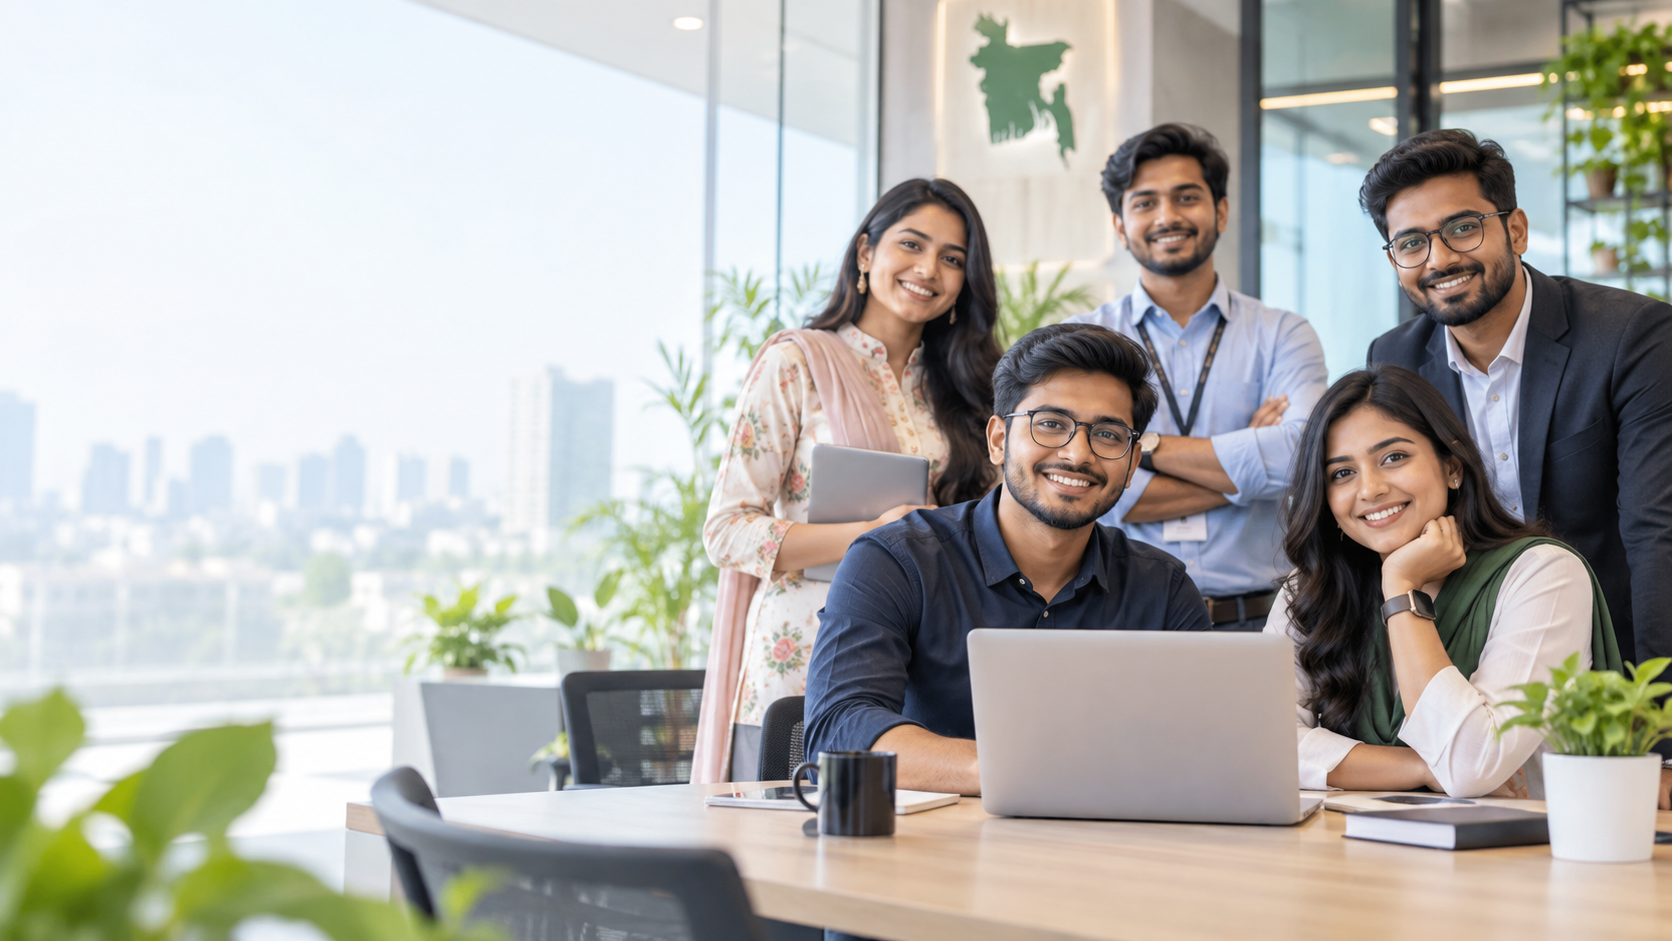
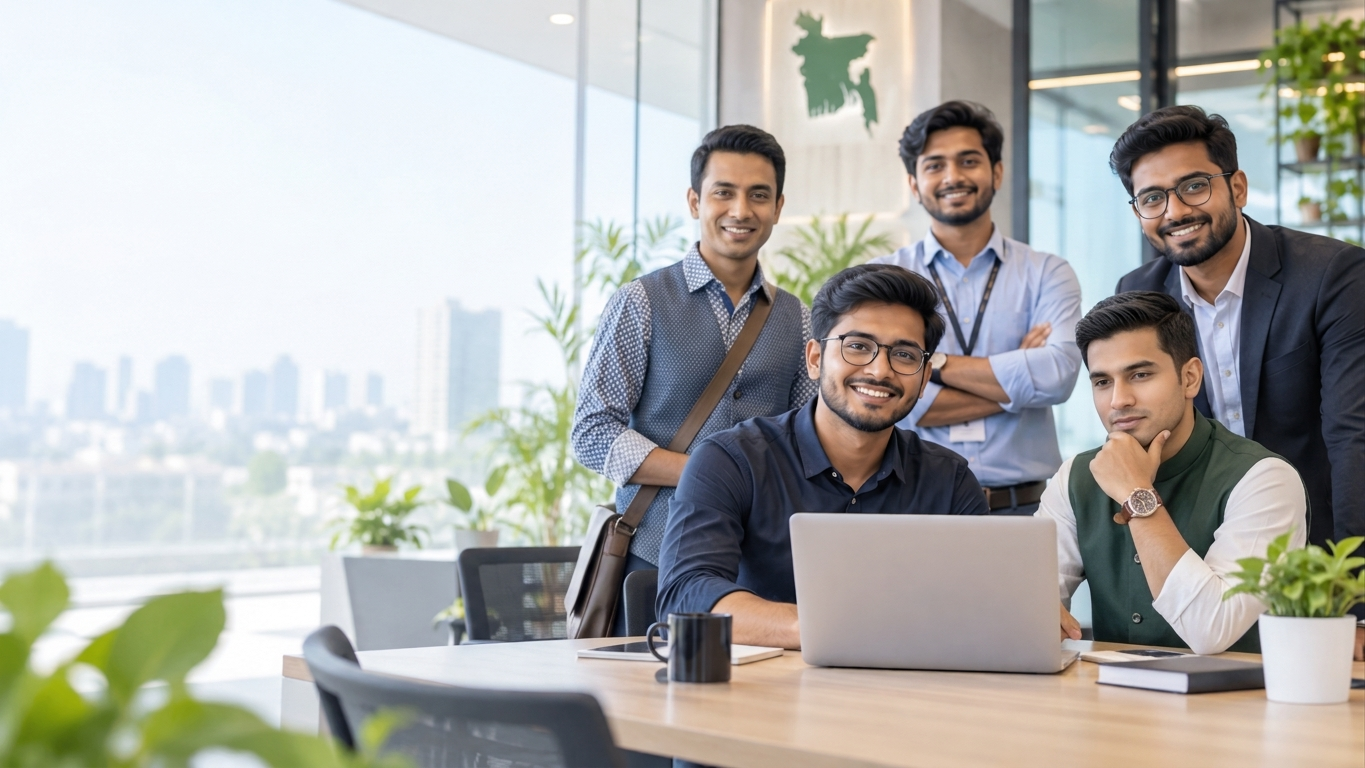
feat: improve Header styling and add dynamic behavior
This commit refactors the `Header` component to include several styling enhancements and dynamic behaviors:

- **Dynamic Transparency:** The header on the home page (`/`) now starts as transparent and floats over the hero section. It becomes opaque and applies a background blur when the user scrolls down, or when the mobile menu is open.
- **Responsive Width:** The header's width is now dynamically adjusted based on whether it's on the home page, allowing for better alignment with the hero text.
- **Visual Enhancements:**
    - Updated `Admission OnBoard` logo width for better responsiveness.
    - Adjusted spacing and font weight for desktop navigation items.
    - Redesigned "Login" and "Register" buttons with updated border, background, and hover styles.
    - Modified the mobile menu button's background and hover states.

These changes provide a more modern and interactive user experience, particularly on the home page, and improve the overall aesthetic consistency of the application.

Changed region(s): [[0.4, 0.1562, 0.6462, 0.9375], [0.7385, 0.375, 0.9846, 0.875], [0.8308, 0.9375, 0.8615, 0.9688]]

diff --git a/src/views/home/HeroHome.tsx b/src/views/home/HeroHome.tsx
@@ -1,11 +1,32 @@
 import Image from "next/image";
 import Link from "next/link";
 
-const headline = ["Turn your overseas", "education vision into"];
+function ArrowIcon() {
+  return (
+    <svg
+      width="20"
+      height="20"
+      viewBox="0 0 24 24"
+      fill="none"
+      className="shrink-0 transition-transform duration-300 group-hover:translate-x-1">
+      <path
+        d="M5 12h14M13 6l6 6-6 6"
+        stroke="currentColor"
+        strokeWidth="2"
+        strokeLinecap="round"
+        strokeLinejoin="round"
+      />
+    </svg>
+  );
+}
+
+const fadeUp =
+  "animate-[heroFadeUp_0.8s_cubic-bezier(0.22,1,0.36,1)_both] motion-reduce:animate-none";
 
 export default function HeroHome() {
   return (
-    <section className="relative w-full overflow-hidden bg-[#F2F8FE]">
+    // Pulled up under the sticky header (80px mobile / 96px desktop) so the navbar floats over the image
+    <section className="relative -mt-20 w-full overflow-hidden bg-[#F5F8FD] lg:-mt-24">
       <style>{`
         @keyframes heroFadeUp {
           from { opacity: 0; transform: translateY(28px); }
@@ -16,122 +37,107 @@ export default function HeroHome() {
           to   { opacity: 1; transform: scale(1); }
         }
         @keyframes heroUnderline {
-          from { stroke-dashoffset: 220; }
+          from { stroke-dashoffset: 420; }
           to   { stroke-dashoffset: 0; }
         }
       `}</style>
 
-      {/* Height follows the image's 3:1 ratio, but grows if the text needs more room */}
-      <div className="relative flex flex-col lg:min-h-[max(560px,33.33vw)] lg:w-full lg:flex-row lg:items-center">
+      {/* Desktop height follows the image's 16:9 ratio, so text and image keep the same proportions at every width */}
+      <div className="relative flex flex-col lg:aspect-[1672/941] lg:flex-row lg:items-center">
         {/* Background image (below text on mobile, full-bleed behind text on desktop) */}
-        <div className="relative order-2 h-72 sm:h-96 lg:absolute lg:inset-0 lg:h-full">
+        <div className="relative order-2 h-80 sm:h-[28rem] lg:absolute lg:inset-0 lg:h-full">
           <Image
             src="/Hero.png"
             alt="Student ready to study abroad with Admission OnBoard"
             fill
             priority
             sizes="100vw"
-            className="object-cover object-[70%_center] animate-[heroImageIn_1.2s_ease-out_both] motion-reduce:animate-none lg:object-center"
+            className="object-cover object-[80%_center] animate-[heroImageIn_1.2s_ease-out_both] motion-reduce:animate-none lg:object-center"
           />
         </div>
 
-        {/* Text sits on the empty sky area on the left of the image; same px-4 + container as the header so the left edges line up */}
-        <div className="relative z-10 order-1 w-full px-4 pt-14 pb-8 lg:py-14">
-          <div className="mx-auto container">
-          {/* On narrower desktops the 3:1 image is cropped and its circle shifts left, so cap the width by the viewport too */}
-          <div className="lg:max-w-[min(46%,calc(50vw-170px))]">
-            <h1 className="text-[2rem] font-bold leading-[1.15] tracking-tight text-[#0F1B3D] sm:text-5xl lg:text-[clamp(2rem,3vw,4rem)]">
-              {headline.map((line, i) => (
-                <span
-                  key={line}
-                  className="block animate-[heroFadeUp_0.8s_cubic-bezier(0.22,1,0.36,1)_both] motion-reduce:animate-none"
-                  style={{ animationDelay: `${i * 120}ms` }}>
-                  {line}
-                </span>
-              ))}
+        {/* Desktop: everything is sized in vw (via --s) and inset 5.4vw, so the text keeps the design's proportions to the full-bleed image at every width */}
+        <div className="relative z-10 order-1 w-full px-4 pt-32 pb-8 lg:px-[5.4vw] lg:pt-[4.5vw] lg:pb-[1vw]">
+          <div className="mx-auto w-full sm:max-w-[40rem] md:max-w-3xl lg:max-w-none lg:[--s:1vw]">
+            <span
+              className={`inline-flex items-center gap-3 rounded-full bg-[#E8F0FD] px-5 py-2.5 text-base font-semibold text-[#0A3FB8] lg:h-[calc(var(--s)*3.2)] lg:gap-[calc(var(--s)*1.1)] lg:px-[calc(var(--s)*1.6)] lg:py-0 lg:text-[max(0.875rem,calc(var(--s)*1.37))] ${fadeUp}`}>
+              <svg
+                aria-hidden
+                viewBox="0 0 24 24"
+                fill="none"
+                className="h-6 w-7 shrink-0 lg:h-[calc(var(--s)*1.9)] lg:w-[calc(var(--s)*2.3)]">
+                <path
+                  d="M12 4 2 9l10 5 10-5-10-5Z"
+                  stroke="currentColor"
+                  strokeWidth="1.8"
+                  strokeLinejoin="round"
+                />
+                <path
+                  d="M6 11.2v4.3c0 1.4 2.7 3 6 3s6-1.6 6-3v-4.3M22 9v5"
+                  stroke="currentColor"
+                  strokeWidth="1.8"
+                  strokeLinecap="round"
+                />
+              </svg>
+              Study Abroad
+            </span>
+
+            <h1 className="mt-6 text-[2.25rem] font-bold leading-[1.1] tracking-[-0.02em] text-[#0B1533] sm:text-5xl lg:mt-[calc(var(--s)*2.6)] lg:text-[calc(var(--s)*3.9)] lg:leading-[1.16]">
               <span
-                className="block animate-[heroFadeUp_0.8s_cubic-bezier(0.22,1,0.36,1)_both] motion-reduce:animate-none"
+                className={`lg:block lg:whitespace-nowrap ${fadeUp}`}
+                style={{ animationDelay: "120ms" }}>
+                The fastest and easiest way{" "}
+              </span>
+              <span
+                className={`lg:block lg:whitespace-nowrap ${fadeUp}`}
                 style={{ animationDelay: "240ms" }}>
-                <span className="relative inline-block text-[#F58B0F]">
-                  reality
+                to successfully{" "}
+                <span className="relative inline-block whitespace-nowrap text-[#0A4FE0]">
+                  study abroad
                   {/* Hand-drawn underline that draws itself in */}
                   <svg
                     aria-hidden
-                    viewBox="0 0 200 20"
+                    viewBox="0 0 400 24"
                     preserveAspectRatio="none"
-                    className="absolute -bottom-2 left-0 h-3 w-[95%]">
+                    className="absolute -bottom-[0.32em] left-[0.05em] h-[0.3em] w-[98%]">
                     <path
-                      d="M4 12 C 50 4, 120 4, 196 9 M30 16 C 80 10, 130 11, 170 14"
+                      d="M6 18 C 90 8, 200 6, 394 10 M150 12 c 4 -4, 10 -2, 8 6"
                       fill="none"
-                      stroke="#F58B0F"
+                      stroke="#0A4FE0"
                       strokeWidth="4"
                       strokeLinecap="round"
-                      strokeDasharray="220"
+                      strokeDasharray="420"
                       className="animate-[heroUnderline_0.9s_cubic-bezier(0.65,0,0.35,1)_both] motion-reduce:animate-none"
                       style={{ animationDelay: "900ms" }}
                     />
                   </svg>
-                </span>{" "}
-                with
-              </span>
-              <span
-                className="mt-1 block animate-[heroFadeUp_0.8s_cubic-bezier(0.22,1,0.36,1)_both] text-[#1366E0] motion-reduce:animate-none"
-                style={{ animationDelay: "360ms" }}>
-                Admission OnBoard
+                </span>
               </span>
             </h1>
 
             <p
-              className="mt-5 max-w-xl text-base text-[#3B4660] animate-[heroFadeUp_0.8s_ease-out_both] motion-reduce:animate-none sm:text-lg lg:mt-[1.5vw] lg:text-[clamp(1rem,1.2vw,1.4rem)]"
+              className={`mt-8 max-w-[26em] text-lg leading-[1.55] text-[#4A5268] lg:mt-[calc(var(--s)*3)] lg:text-[max(1rem,calc(var(--s)*1.5))] ${fadeUp}`}
               style={{ animationDelay: "450ms" }}>
-              We connect students, universities, and education partners
-              worldwide through smart technology, trusted recruitment networks,
-              and personalised support to make global education more accessible.
+              Find the right university, get expert guidance, and turn your
+              global education goals into reality.
             </p>
 
             <div
-              className="mt-7 flex flex-col gap-3 animate-[heroFadeUp_0.8s_ease-out_both] motion-reduce:animate-none sm:flex-row sm:flex-wrap lg:mt-[1.8vw]"
-              style={{ animationDelay: "750ms" }}>
+              className={`mt-8 flex flex-col gap-4 sm:flex-row lg:mt-[calc(var(--s)*4)] lg:gap-[calc(var(--s)*1.45)] ${fadeUp}`}
+              style={{ animationDelay: "650ms" }}>
               <Link
                 href="/auth/register"
-                className="group inline-flex items-center justify-center gap-2 rounded-full bg-[#1366E0] px-6 py-3 text-sm font-semibold text-white shadow-md shadow-[#1366E0]/25 transition-all duration-300 hover:-translate-y-0.5 hover:bg-[#0F55BE] hover:shadow-lg focus:outline-none focus-visible:ring-2 focus-visible:ring-[#1366E0] focus-visible:ring-offset-2">
+                className="group inline-flex h-14 items-center justify-center gap-3 whitespace-nowrap rounded-full bg-[#0A4FE0] px-8 text-lg font-semibold text-white shadow-lg shadow-[#0A4FE0]/25 transition-all duration-300 hover:-translate-y-0.5 hover:bg-[#083FB5] hover:shadow-xl focus:outline-none focus-visible:ring-2 focus-visible:ring-[#0A4FE0] focus-visible:ring-offset-2 lg:h-[max(2.75rem,calc(var(--s)*3.6))] lg:gap-[calc(var(--s)*1)] lg:px-[calc(var(--s)*2.4)] lg:text-[max(0.9375rem,calc(var(--s)*1.24))]">
                 Register as a Student
-                <svg
-                  width="16"
-                  height="16"
-                  viewBox="0 0 24 24"
-                  fill="none"
-                  className="shrink-0 transition-transform duration-300 group-hover:translate-x-1">
-                  <path
-                    d="M5 12h14M13 6l6 6-6 6"
-                    stroke="currentColor"
-                    strokeWidth="2"
-                    strokeLinecap="round"
-                    strokeLinejoin="round"
-                  />
-                </svg>
+                <ArrowIcon />
               </Link>
               <Link
                 href="/recruitment-partner"
-                className="group inline-flex items-center justify-center gap-2 rounded-full bg-[#1366E0] px-6 py-3 text-sm font-semibold text-white shadow-md shadow-[#1366E0]/25 transition-all duration-300 hover:-translate-y-0.5 hover:bg-[#0F55BE] hover:shadow-lg focus:outline-none focus-visible:ring-2 focus-visible:ring-[#1366E0] focus-visible:ring-offset-2">
+                className="group inline-flex h-14 items-center justify-center gap-3 whitespace-nowrap rounded-full border-[1.5px] border-[#0B1533] bg-white/70 px-8 text-lg font-semibold text-[#0B1533] transition-all duration-300 hover:-translate-y-0.5 hover:border-[#0A4FE0] hover:bg-white hover:text-[#0A4FE0] hover:shadow-lg focus:outline-none focus-visible:ring-2 focus-visible:ring-[#0A4FE0] focus-visible:ring-offset-2 lg:h-[max(2.75rem,calc(var(--s)*3.6))] lg:gap-[calc(var(--s)*1)] lg:px-[calc(var(--s)*2.4)] lg:text-[max(0.9375rem,calc(var(--s)*1.24))]">
                 Join as a Recruitment Partner
-                <svg
-                  width="16"
-                  height="16"
-                  viewBox="0 0 24 24"
-                  fill="none"
-                  className="shrink-0 transition-transform duration-300 group-hover:translate-x-1">
-                  <path
-                    d="M5 12h14M13 6l6 6-6 6"
-                    stroke="currentColor"
-                    strokeWidth="2"
-                    strokeLinecap="round"
-                    strokeLinejoin="round"
-                  />
-                </svg>
+                <ArrowIcon />
               </Link>
             </div>
-          </div>
           </div>
         </div>
       </div>

diff --git a/src/components/common/Header.tsx b/src/components/common/Header.tsx
@@ -1,8 +1,9 @@
 "use client";
 
-import { useState, type ReactNode } from "react";
+import { useEffect, useState, type ReactNode } from "react";
 import Image from "next/image";
 import Link from "next/link";
+import { usePathname } from "next/navigation";
 import ReactCountryFlag from "react-country-flag";
 
 const countries = [
@@ -219,11 +220,37 @@ function DesktopDropdown({
 export default function Header() {
   const [mobileOpen, setMobileOpen] = useState(false);
   const closeMobile = () => setMobileOpen(false);
+  const pathname = usePathname();
+  const [scrolled, setScrolled] = useState(false);
+
+  useEffect(() => {
+    const onScroll = () => setScrolled(window.scrollY > 8);
+    onScroll();
+    window.addEventListener("scroll", onScroll, { passive: true });
+    return () => window.removeEventListener("scroll", onScroll);
+  }, []);
+
+  // On the home page the header floats transparently over the hero until the user scrolls
+  const isHome = pathname === "/";
+  const transparent = isHome && !scrolled && !mobileOpen;
 
   return (
     <div className="sticky top-0 z-50 w-full px-4 pt-4">
-      <header className="mx-auto container rounded-[28px] border border-black/5 bg-linear-to-b from-white/80 via-white/70 to-[#FFFEFA] shadow-lg shadow-black/5 backdrop-blur-xl lg:rounded-full">
-        <div className="flex h-16 w-full items-center justify-between gap-4 px-6">
+      <header
+        className={`mx-auto rounded-[28px] border transition-all duration-300 lg:rounded-full ${
+          // Home: full width so the logo lines up with the hero text (5.4vw inset); elsewhere: page container
+          isHome ? "w-full sm:max-w-[40rem] md:max-w-3xl lg:max-w-none" : "container"
+        } ${
+          transparent
+            ? "border-transparent bg-transparent"
+            : "border-black/5 bg-linear-to-b from-white/80 via-white/70 to-[#FFFEFA] shadow-lg shadow-black/5 backdrop-blur-xl"
+        }`}
+      >
+        <div
+          className={`flex h-16 w-full items-center justify-between gap-4 px-6 lg:h-20 ${
+            isHome ? "lg:pr-[calc(3.6vw-17px)] lg:pl-[calc(5.4vw-17px)]" : ""
+          }`}
+        >
           <Link
             href="/"
             className="shrink-0 text-lg font-bold tracking-tight text-black"
@@ -233,12 +260,12 @@ export default function Header() {
               alt="Admission OnBoard"
               width={180}
               height={22}
-              className="h-auto w-[150px] xl:w-[180px]"
+              className="h-auto w-[150px] xl:w-[190px]"
             />
           </Link>
 
           {/* Desktop nav (tighter on lg so it fits on one line, full size from xl) */}
-          <nav className="hidden items-center gap-4 whitespace-nowrap text-sm font-light text-zinc-900 lg:flex xl:gap-8 xl:text-base">
+          <nav className="hidden items-center gap-5 whitespace-nowrap text-sm font-normal text-[#1F2937] lg:flex xl:gap-6 xl:text-base 2xl:gap-10 2xl:text-[17px]">
             <DesktopDropdown label="About" width="w-50">
               {(close) =>
                 about.map((item) => (
@@ -315,13 +342,13 @@ export default function Header() {
           <div className="hidden shrink-0 items-center gap-2 lg:flex xl:gap-3">
             <Link
               href="/auth/login"
-              className="flex h-10 items-center justify-center whitespace-nowrap rounded-full border border-black px-4 text-sm xl:px-5 xl:text-[15px] font-semibold tracking-wide text-black transition-colors duration-200 hover:border-[#1366E0] hover:bg-black/2 hover:text-[#1366E0]"
+              className="flex h-11 items-center justify-center whitespace-nowrap rounded-full border-[1.5px] border-[#0B1533] bg-white px-5 text-sm font-semibold text-[#0B1533] transition-colors duration-200 hover:border-[#0A4FE0] hover:text-[#0A4FE0] xl:px-6 xl:text-base 2xl:text-[17px]"
             >
               Login
             </Link>
             <Link
               href="/auth/register"
-              className="flex h-10 items-center justify-center whitespace-nowrap rounded-full bg-black px-4 text-sm xl:px-5 xl:text-[15px] font-semibold tracking-wide text-white shadow-sm shadow-[#F68F29]/30 transition-colors duration-200 hover:bg-gray-950"
+              className="flex h-11 items-center justify-center whitespace-nowrap rounded-full bg-[#0A4FE0] px-5 text-sm font-semibold text-white shadow-md shadow-[#0A4FE0]/25 transition-colors duration-200 hover:bg-[#083FB5] xl:px-7 xl:text-base 2xl:px-8 2xl:text-[17px]"
             >
               Register as a Student
             </Link>
